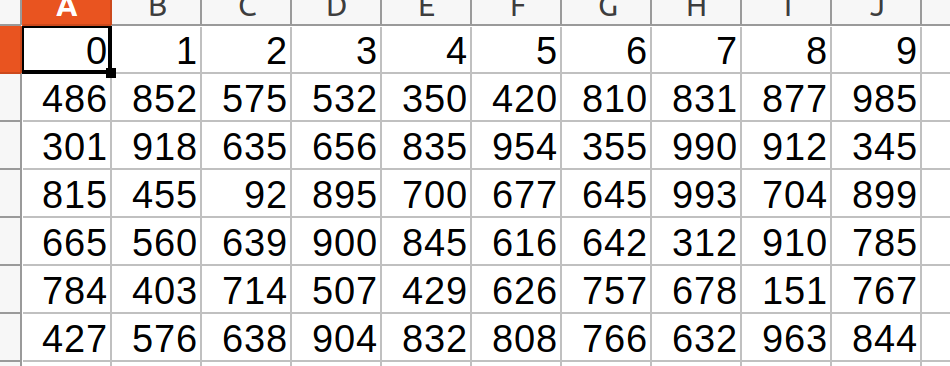
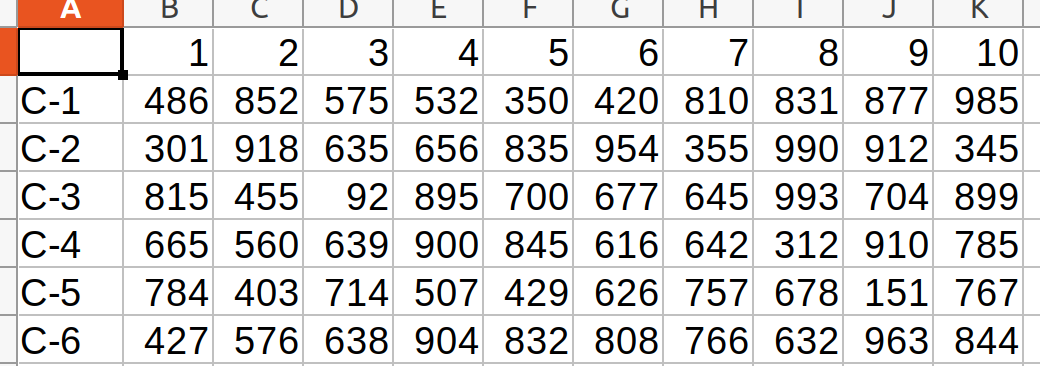
update

diff --git a/code/category_management/src/category_bought.py b/code/category_management/src/category_bought.py
@@ -12,7 +12,7 @@ def transform_datas(datas):
     for i in category_arr:
         category_prods.append(grouped_datas.get_group(i)['productid'].to_list())
 
-    converted_datas = pd.DataFrame(category_prods, index=list(map(lambda x: f"category-{x}", category_arr)))
+    converted_datas = pd.DataFrame(category_prods, columns=[str(i) for i in range(1, 11)], index=list(map(lambda x: f"C-{x}", category_arr)))
 
     return converted_datas
 
@@ -25,4 +25,4 @@ def main():
     now = datetime.now().strftime("%Y-%d-%m, %H")
     cfg = config.get('category_management')
 
-    transformed_datas.to_csv(f"{cfg['output_path']}/category_bought_{now}.csv", index=False)
+    transformed_datas.to_csv(f"{cfg['output_path']}/category_bought_{now}.csv")

diff --git a/code/category_management/src/category_viewed.py b/code/category_management/src/category_viewed.py
@@ -12,7 +12,7 @@ def transform_datas(datas):
     for i in category_arr:
         category_prods.append(grouped_datas.get_group(i)['productid'].to_list())
 
-    converted_datas = pd.DataFrame(category_prods, index=list(map(lambda x: f"category-{x}", category_arr)))
+    converted_datas = pd.DataFrame(category_prods, columns=[str(i) for i in range(1, 11)], index=list(map(lambda x: f"C-{x}", category_arr)))
 
     return converted_datas
 
@@ -26,4 +26,4 @@ def main():
     now = datetime.now().strftime("%Y-%d-%m, %H")
     cfg = config.get('category_management')
 
-    transformed_datas.to_csv(f"{cfg['output_path']}/category_viewed_{now}.csv", index=False)
+    transformed_datas.to_csv(f"{cfg['output_path']}/category_viewed_{now}.csv")

diff --git a/code/category_management/src/conversion_rates.py b/code/category_management/src/conversion_rates.py
@@ -1,3 +1,4 @@
+from numpy import index_exp
 import pandas as pd
 from datetime import datetime
 import os
